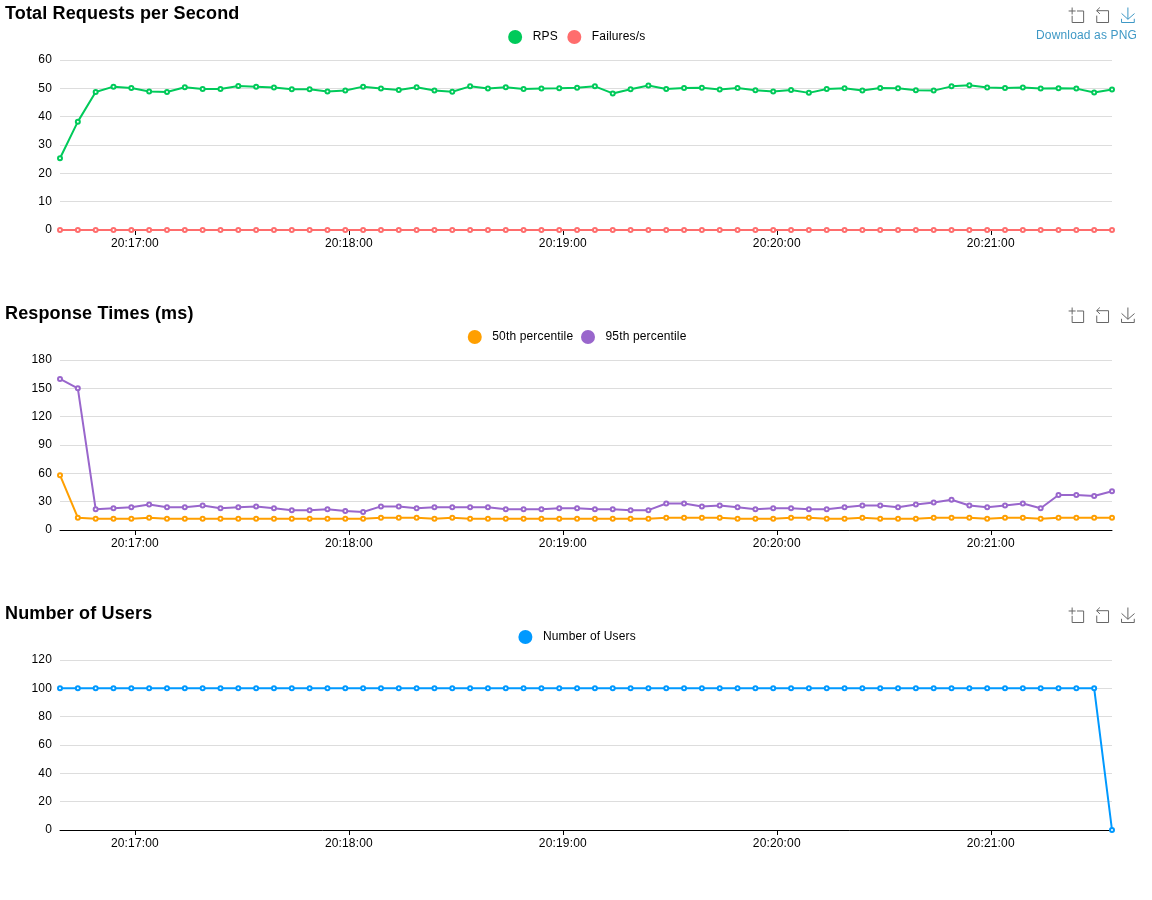
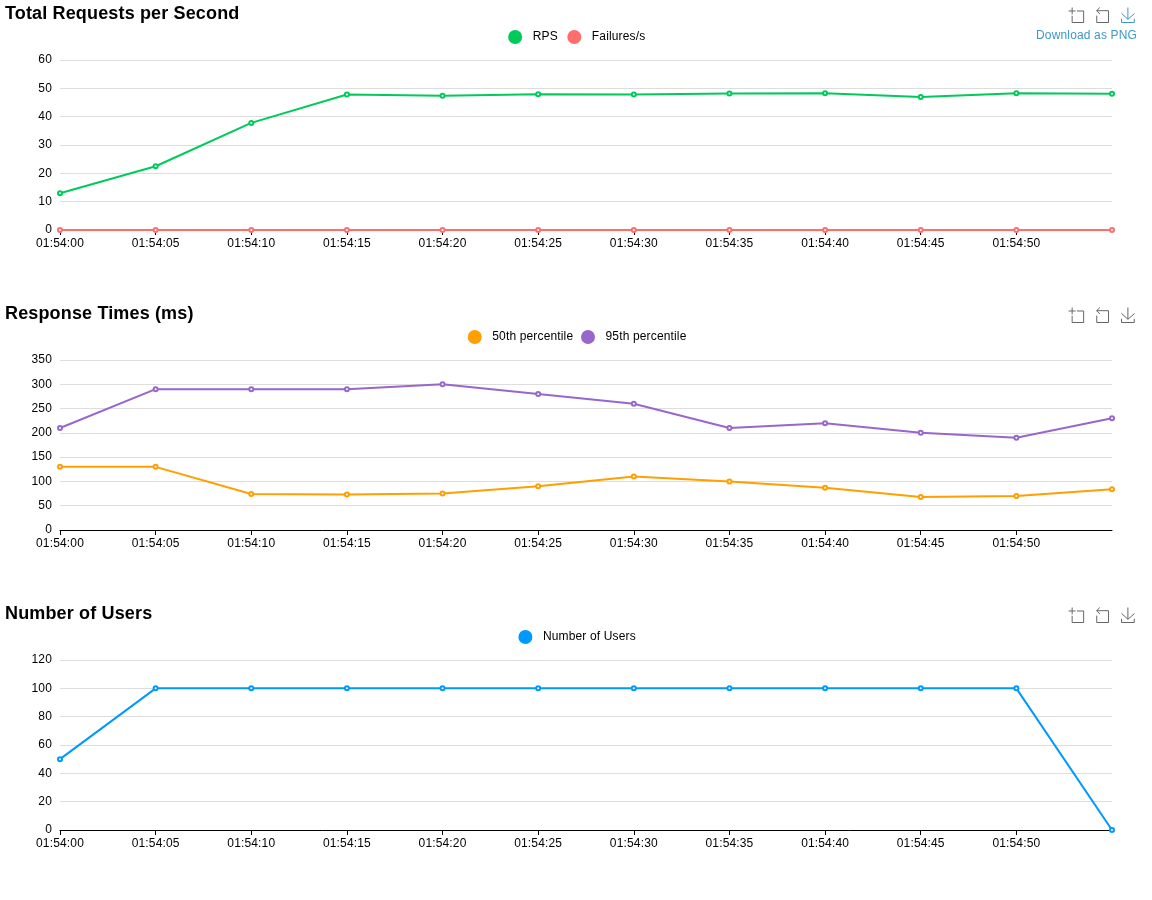
locust tests / README.md

diff --git a/services/drf/tests/external/report.html b/services/drf/tests/external/report.html
@@ -116,7 +116,7 @@
     <div id="root"></div>
 
     <script>
-      window.templateArgs = {"duration": "5 minutes", "end_time": "2026-01-13T15:38:04Z", "exceptions_statistics": [], "failures_statistics": [], "history": [{"current_fail_per_sec": ["2026-01-13T15:33:09Z", 0], "current_rps": ["2026-01-13T15:33:09Z", 6.0], "response_time_percentile_0.5": ["2026-01-13T15:33:09Z", 250.0], "response_time_percentile_0.95": ["2026-01-13T15:33:09Z", 490.0], "time": "2026-01-13T15:33:09Z", "total_avg_response_time": ["2026-01-13T15:33:09Z", 244.52], "user_count": ["2026-01-13T15:33:09Z", 25]}, {"current_fail_per_sec": ["2026-01-13T15:33:14Z", 0], "current_rps": ["2026-01-13T15:33:14Z", 10.125], "response_time_percentile_0.5": ["2026-01-13T15:33:14Z", 150.0], "response_time_percentile_0.95": ["2026-01-13T15:33:14Z", 440.0], "time": "2026-01-13T15:33:14Z", "total_avg_response_time": ["2026-01-13T15:33:14Z", 189.95], "user_count": ["2026-01-13T15:33:14Z", 30]}, {"current_fail_per_sec": ["2026-01-13T15:33:19Z", 0], "current_rps": ["2026-01-13T15:33:19Z", 13.3], "response_time_percentile_0.5": ["2026-01-13T15:33:19Z", 150.0], "response_time_percentile_0.95": ["2026-01-13T15:33:19Z", 330.0], "time": "2026-01-13T15:33:19Z", "total_avg_response_time": ["2026-01-13T15:33:19Z", 177.52], "user_count": ["2026-01-13T15:33:19Z", 30]}, {"current_fail_per_sec": ["2026-01-13T15:33:24Z", 0], "current_rps": ["2026-01-13T15:33:24Z", 14.0], "response_time_percentile_0.5": ["2026-01-13T15:33:24Z", 180.0], "response_time_percentile_0.95": ["2026-01-13T15:33:24Z", 350.0], "time": "2026-01-13T15:33:24Z", "total_avg_response_time": ["2026-01-13T15:33:24Z", 184.58], "user_count": ["2026-01-13T15:33:24Z", 30]}, {"current_fail_per_sec": ["2026-01-13T15:33:29Z", 0], "current_rps": ["2026-01-13T15:33:29Z", 13.6], "response_time_percentile_0.5": ["2026-01-13T15:33:29Z", 220.0], "response_time_percentile_0.95": ["2026-01-13T15:33:29Z", 520.0], "time": "2026-01-13T15:33:29Z", "total_avg_response_time": ["2026-01-13T15:33:29Z", 202.81], "user_count": ["2026-01-13T15:33:29Z", 30]}, {"current_fail_per_sec": ["2026-01-13T15:33:34Z", 0], "current_rps": ["2026-01-13T15:33:34Z", 13.3], "response_time_percentile_0.5": ["2026-01-13T15:33:34Z", 200.0], "response_time_percentile_0.95": ["2026-01-13T15:33:34Z", 560.0], "time": "2026-01-13T15:33:34Z", "total_avg_response_time": ["2026-01-13T15:33:34Z", 200.83], "user_count": ["2026-01-13T15:33:34Z", 30]}, {"current_fail_per_sec": ["2026-01-13T15:33:39Z", 0], "current_rps": ["2026-01-13T15:33:39Z", 13.1], "response_time_percentile_0.5": ["2026-01-13T15:33:39Z", 170.0], "response_time_percentile_0.95": ["2026-01-13T15:33:39Z", 340.0], "time": "2026-01-13T15:33:39Z", "total_avg_response_time": ["2026-01-13T15:33:39Z", 195.48], "user_count": ["2026-01-13T15:33:39Z", 30]}, {"current_fail_per_sec": ["2026-01-13T15:33:44Z", 0], "current_rps": ["2026-01-13T15:33:44Z", 13.7], "response_time_percentile_0.5": ["2026-01-13T15:33:44Z", 190.0], "response_time_percentile_0.95": ["2026-01-13T15:33:44Z", 390.0], "time": "2026-01-13T15:33:44Z", "total_avg_response_time": ["2026-01-13T15:33:44Z", 197.82], "user_count": ["2026-01-13T15:33:44Z", 30]}, {"current_fail_per_sec": ["2026-01-13T15:33:49Z", 0], "current_rps": ["2026-01-13T15:33:49Z", 14.3], "response_time_percentile_0.5": ["2026-01-13T15:33:49Z", 240.0], "response_time_percentile_0.95": ["2026-01-13T15:33:49Z", 510.0], "time": "2026-01-13T15:33:49Z", "total_avg_response_time": ["2026-01-13T15:33:49Z", 205.03], "user_count": ["2026-01-13T15:33:49Z", 30]}, {"current_fail_per_sec": ["2026-01-13T15:33:54Z", 0], "current_rps": ["2026-01-13T15:33:54Z", 13.7], "response_time_percentile_0.5": ["2026-01-13T15:33:54Z", 210.0], "response_time_percentile_0.95": ["2026-01-13T15:33:54Z", 540.0], "time": "2026-01-13T15:33:54Z", "total_avg_response_time": ["2026-01-13T15:33:54Z", 207.94], "user_count": ["2026-01-13T15:33:54Z", 30]}, {"current_fail_per_sec": ["2026-01-13T15:33:59Z", 0], "current_rps": ["2026-01-13T15:33:59Z", 13.3], "response_time_percentile_0.5": ["2026-01-13T15:33:59Z", 180.0], "response_time_percentile_0.95": ["2026-01-13T15:33:59Z", 480.0], "time": "2026-01-13T15:33:59Z", "total_avg_response_time": ["2026-01-13T15:33:59Z", 203.93], "user_count": ["2026-01-13T15:33:59Z", 30]}, {"current_fail_per_sec": ["2026-01-13T15:34:04Z", 0], "current_rps": ["2026-01-13T15:34:04Z", 13.0], "response_time_percentile_0.5": ["2026-01-13T15:34:04Z", 180.0], "response_time_percentile_0.95": ["2026-01-13T15:34:04Z", 310.0], "time": "2026-01-13T15:34:04Z", "total_avg_response_time": ["2026-01-13T15:34:04Z", 202.76], "user_count": ["2026-01-13T15:34:04Z", 30]}, {"current_fail_per_sec": ["2026-01-13T15:34:09Z", 0], "current_rps": ["2026-01-13T15:34:09Z", 13.4], "response_time_percentile_0.5": ["2026-01-13T15:34:09Z", 180.0], "response_time_percentile_0.95": ["2026-01-13T15:34:09Z", 310.0], "time": "2026-01-13T15:34:09Z", "total_avg_response_time": ["2026-01-13T15:34:09Z", 201.0], "user_count": ["2026-01-13T15:34:09Z", 30]}, {"current_fail_per_sec": ["2026-01-13T15:34:14Z", 0], "current_rps": ["2026-01-13T15:34:14Z", 13.8], "response_time_percentile_0.5": ["2026-01-13T15:34:14Z", 210.0], "response_time_percentile_0.95": ["2026-01-13T15:34:14Z", 410.0], "time": "2026-01-13T15:34:14Z", "total_avg_response_time": ["2026-01-13T15:34:14Z", 203.1], "user_count": ["2026-01-13T15:34:14Z", 30]}, {"current_fail_per_sec": ["2026-01-13T15:34:19Z", 0], "current_rps": ["2026-01-13T15:34:19Z", 13.5], "response_time_percentile_0.5": ["2026-01-13T15:34:19Z", 220.0], "response_time_percentile_0.95": ["2026-01-13T15:34:19Z", 440.0], "time": "2026-01-13T15:34:19Z", "total_avg_response_time": ["2026-01-13T15:34:19Z", 205.04], "user_count": ["2026-01-13T15:34:19Z", 30]}, {"current_fail_per_sec": ["2026-01-13T15:34:24Z", 0], "current_rps": ["2026-01-13T15:34:24Z", 13.7], "response_time_percentile_0.5": ["2026-01-13T15:34:24Z", 190.0], "response_time_percentile_0.95": ["2026-01-13T15:34:24Z", 400.0], "time": "2026-01-13T15:34:24Z", "total_avg_response_time": ["2026-01-13T15:34:24Z", 205.79], "user_count": ["2026-01-13T15:34:24Z", 30]}, {"current_fail_per_sec": ["2026-01-13T15:34:29Z", 0], "current_rps": ["2026-01-13T15:34:29Z", 13.8], "response_time_percentile_0.5": ["2026-01-13T15:34:29Z", 220.0], "response_time_percentile_0.95": ["2026-01-13T15:34:29Z", 410.0], "time": "2026-01-13T15:34:29Z", "total_avg_response_time": ["2026-01-13T15:34:29Z", 206.54], "user_count": ["2026-01-13T15:34:29Z", 30]}, {"current_fail_per_sec": ["2026-01-13T15:34:34Z", 0], "current_rps": ["2026-01-13T15:34:34Z", 13.9], "response_time_percentile_0.5": ["2026-01-13T15:34:34Z", 140.0], "response_time_percentile_0.95": ["2026-01-13T15:34:34Z", 400.0], "time": "2026-01-13T15:34:34Z", "total_avg_response_time": ["2026-01-13T15:34:34Z", 202.04], "user_count": ["2026-01-13T15:34:34Z", 30]}, {"current_fail_per_sec": ["2026-01-13T15:34:39Z", 0], "current_rps": ["2026-01-13T15:34:39Z", 14.0], "response_time_percentile_0.5": ["2026-01-13T15:34:39Z", 140.0], "response_time_percentile_0.95": ["2026-01-13T15:34:39Z", 310.0], "time": "2026-01-13T15:34:39Z", "total_avg_response_time": ["2026-01-13T15:34:39Z", 200.64], "user_count": ["2026-01-13T15:34:39Z", 30]}, {"current_fail_per_sec": ["2026-01-13T15:34:44Z", 0], "current_rps": ["2026-01-13T15:34:44Z", 13.8], "response_time_percentile_0.5": ["2026-01-13T15:34:44Z", 170.0], "response_time_percentile_0.95": ["2026-01-13T15:34:44Z", 360.0], "time": "2026-01-13T15:34:44Z", "total_avg_response_time": ["2026-01-13T15:34:44Z", 199.7], "user_count": ["2026-01-13T15:34:44Z", 30]}, {"current_fail_per_sec": ["2026-01-13T15:34:49Z", 0], "current_rps": ["2026-01-13T15:34:49Z", 13.5], "response_time_percentile_0.5": ["2026-01-13T15:34:49Z", 170.0], "response_time_percentile_0.95": ["2026-01-13T15:34:49Z", 420.0], "time": "2026-01-13T15:34:49Z", "total_avg_response_time": ["2026-01-13T15:34:49Z", 200.42], "user_count": ["2026-01-13T15:34:49Z", 30]}, {"current_fail_per_sec": ["2026-01-13T15:34:54Z", 0], "current_rps": ["2026-01-13T15:34:54Z", 13.8], "response_time_percentile_0.5": ["2026-01-13T15:34:54Z", 190.0], "response_time_percentile_0.95": ["2026-01-13T15:34:54Z", 410.0], "time": "2026-01-13T15:34:54Z", "total_avg_response_time": ["2026-01-13T15:34:54Z", 201.42], "user_count": ["2026-01-13T15:34:54Z", 30]}, {"current_fail_per_sec": ["2026-01-13T15:34:59Z", 0], "current_rps": ["2026-01-13T15:34:59Z", 14.1], "response_time_percentile_0.5": ["2026-01-13T15:34:59Z", 180.0], "response_time_percentile_0.95": ["2026-01-13T15:34:59Z", 400.0], "time": "2026-01-13T15:34:59Z", "total_avg_response_time": ["2026-01-13T15:34:59Z", 200.44], "user_count": ["2026-01-13T15:34:59Z", 30]}, {"current_fail_per_sec": ["2026-01-13T15:35:04Z", 0], "current_rps": ["2026-01-13T15:35:04Z", 13.8], "response_time_percentile_0.5": ["2026-01-13T15:35:04Z", 150.0], "response_time_percentile_0.95": ["2026-01-13T15:35:04Z", 410.0], "time": "2026-01-13T15:35:04Z", "total_avg_response_time": ["2026-01-13T15:35:04Z", 200.46], "user_count": ["2026-01-13T15:35:04Z", 30]}, {"current_fail_per_sec": ["2026-01-13T15:35:09Z", 0], "current_rps": ["2026-01-13T15:35:09Z", 13.8], "response_time_percentile_0.5": ["2026-01-13T15:35:09Z", 180.0], "response_time_percentile_0.95": ["2026-01-13T15:35:09Z", 420.0], "time": "2026-01-13T15:35:09Z", "total_avg_response_time": ["2026-01-13T15:35:09Z", 200.08], "user_count": ["2026-01-13T15:35:09Z", 30]}, {"current_fail_per_sec": ["2026-01-13T15:35:14Z", 0], "current_rps": ["2026-01-13T15:35:14Z", 14.1], "response_time_percentile_0.5": ["2026-01-13T15:35:14Z", 180.0], "response_time_percentile_0.95": ["2026-01-13T15:35:14Z", 360.0], "time": "2026-01-13T15:35:14Z", "total_avg_response_time": ["2026-01-13T15:35:14Z", 199.86], "user_count": ["2026-01-13T15:35:14Z", 30]}, {"current_fail_per_sec": ["2026-01-13T15:35:19Z", 0], "current_rps": ["2026-01-13T15:35:19Z", 13.4], "response_time_percentile_0.5": ["2026-01-13T15:35:19Z", 200.0], "response_time_percentile_0.95": ["2026-01-13T15:35:19Z", 380.0], "time": "2026-01-13T15:35:19Z", "total_avg_response_time": ["2026-01-13T15:35:19Z", 200.28], "user_count": ["2026-01-13T15:35:19Z", 30]}, {"current_fail_per_sec": ["2026-01-13T15:35:24Z", 0], "current_rps": ["2026-01-13T15:35:24Z", 13.2], "response_time_percentile_0.5": ["2026-01-13T15:35:24Z", 190.0], "response_time_percentile_0.95": ["2026-01-13T15:35:24Z", 380.0], "time": "2026-01-13T15:35:24Z", "total_avg_response_time": ["2026-01-13T15:35:24Z", 200.79], "user_count": ["2026-01-13T15:35:24Z", 30]}, {"current_fail_per_sec": ["2026-01-13T15:35:29Z", 0], "current_rps": ["2026-01-13T15:35:29Z", 13.7], "response_time_percentile_0.5": ["2026-01-13T15:35:29Z", 190.0], "response_time_percentile_0.95": ["2026-01-13T15:35:29Z", 390.0], "time": "2026-01-13T15:35:29Z", "total_avg_response_time": ["2026-01-13T15:35:29Z", 200.18], "user_count": ["2026-01-13T15:35:29Z", 30]}, {"current_fail_per_sec": ["2026-01-13T15:35:34Z", 0], "current_rps": ["2026-01-13T15:35:34Z", 13.5], "response_time_percentile_0.5": ["2026-01-13T15:35:34Z", 180.0], "response_time_percentile_0.95": ["2026-01-13T15:35:34Z", 370.0], "time": "2026-01-13T15:35:34Z", "total_avg_response_time": ["2026-01-13T15:35:34Z", 199.96], "user_count": ["2026-01-13T15:35:34Z", 30]}, {"current_fail_per_sec": ["2026-01-13T15:35:39Z", 0], "current_rps": ["2026-01-13T15:35:39Z", 13.6], "response_time_percentile_0.5": ["2026-01-13T15:35:39Z", 180.0], "response_time_percentile_0.95": ["2026-01-13T15:35:39Z", 380.0], "time": "2026-01-13T15:35:39Z", "total_avg_response_time": ["2026-01-13T15:35:39Z", 199.63], "user_count": ["2026-01-13T15:35:39Z", 30]}, {"current_fail_per_sec": ["2026-01-13T15:35:44Z", 0], "current_rps": ["2026-01-13T15:35:44Z", 13.6], "response_time_percentile_0.5": ["2026-01-13T15:35:44Z", 150.0], "response_time_percentile_0.95": ["2026-01-13T15:35:44Z", 360.0], "time": "2026-01-13T15:35:44Z", "total_avg_response_time": ["2026-01-13T15:35:44Z", 197.85], "user_count": ["2026-01-13T15:35:44Z", 30]}, {"current_fail_per_sec": ["2026-01-13T15:35:49Z", 0], "current_rps": ["2026-01-13T15:35:49Z", 13.5], "response_time_percentile_0.5": ["2026-01-13T15:35:49Z", 150.0], "response_time_percentile_0.95": ["2026-01-13T15:35:49Z", 300.0], "time": "2026-01-13T15:35:49Z", "total_avg_response_time": ["2026-01-13T15:35:49Z", 196.35], "user_count": ["2026-01-13T15:35:49Z", 30]}, {"current_fail_per_sec": ["2026-01-13T15:35:54Z", 0], "current_rps": ["2026-01-13T15:35:54Z", 14.0], "response_time_percentile_0.5": ["2026-01-13T15:35:54Z", 140.0], "response_time_percentile_0.95": ["2026-01-13T15:35:54Z", 300.0], "time": "2026-01-13T15:35:54Z", "total_avg_response_time": ["2026-01-13T15:35:54Z", 194.78], "user_count": ["2026-01-13T15:35:54Z", 30]}, {"current_fail_per_sec": ["2026-01-13T15:35:59Z", 0], "current_rps": ["2026-01-13T15:35:59Z", 13.9], "response_time_percentile_0.5": ["2026-01-13T15:35:59Z", 160.0], "response_time_percentile_0.95": ["2026-01-13T15:35:59Z", 380.0], "time": "2026-01-13T15:35:59Z", "total_avg_response_time": ["2026-01-13T15:35:59Z", 195.48], "user_count": ["2026-01-13T15:35:59Z", 30]}, {"current_fail_per_sec": ["2026-01-13T15:36:04Z", 0], "current_rps": ["2026-01-13T15:36:04Z", 13.8], "response_time_percentile_0.5": ["2026-01-13T15:36:04Z", 190.0], "response_time_percentile_0.95": ["2026-01-13T15:36:04Z", 380.0], "time": "2026-01-13T15:36:04Z", "total_avg_response_time": ["2026-01-13T15:36:04Z", 194.82], "user_count": ["2026-01-13T15:36:04Z", 30]}, {"current_fail_per_sec": ["2026-01-13T15:36:09Z", 0], "current_rps": ["2026-01-13T15:36:09Z", 14.0], "response_time_percentile_0.5": ["2026-01-13T15:36:09Z", 160.0], "response_time_percentile_0.95": ["2026-01-13T15:36:09Z", 370.0], "time": "2026-01-13T15:36:09Z", "total_avg_response_time": ["2026-01-13T15:36:09Z", 194.3], "user_count": ["2026-01-13T15:36:09Z", 30]}, {"current_fail_per_sec": ["2026-01-13T15:36:14Z", 0], "current_rps": ["2026-01-13T15:36:14Z", 13.9], "response_time_percentile_0.5": ["2026-01-13T15:36:14Z", 140.0], "response_time_percentile_0.95": ["2026-01-13T15:36:14Z", 410.0], "time": "2026-01-13T15:36:14Z", "total_avg_response_time": ["2026-01-13T15:36:14Z", 193.4], "user_count": ["2026-01-13T15:36:14Z", 30]}, {"current_fail_per_sec": ["2026-01-13T15:36:19Z", 0], "current_rps": ["2026-01-13T15:36:19Z", 13.7], "response_time_percentile_0.5": ["2026-01-13T15:36:19Z", 190.0], "response_time_percentile_0.95": ["2026-01-13T15:36:19Z", 400.0], "time": "2026-01-13T15:36:19Z", "total_avg_response_time": ["2026-01-13T15:36:19Z", 194.92], "user_count": ["2026-01-13T15:36:19Z", 30]}, {"current_fail_per_sec": ["2026-01-13T15:36:24Z", 0], "current_rps": ["2026-01-13T15:36:24Z", 13.3], "response_time_percentile_0.5": ["2026-01-13T15:36:24Z", 220.0], "response_time_percentile_0.95": ["2026-01-13T15:36:24Z", 460.0], "time": "2026-01-13T15:36:24Z", "total_avg_response_time": ["2026-01-13T15:36:24Z", 195.52], "user_count": ["2026-01-13T15:36:24Z", 30]}, {"current_fail_per_sec": ["2026-01-13T15:36:29Z", 0], "current_rps": ["2026-01-13T15:36:29Z", 13.8], "response_time_percentile_0.5": ["2026-01-13T15:36:29Z", 170.0], "response_time_percentile_0.95": ["2026-01-13T15:36:29Z", 410.0], "time": "2026-01-13T15:36:29Z", "total_avg_response_time": ["2026-01-13T15:36:29Z", 195.19], "user_count": ["2026-01-13T15:36:29Z", 30]}, {"current_fail_per_sec": ["2026-01-13T15:36:34Z", 0], "current_rps": ["2026-01-13T15:36:34Z", 13.4], "response_time_percentile_0.5": ["2026-01-13T15:36:34Z", 190.0], "response_time_percentile_0.95": ["2026-01-13T15:36:34Z", 430.0], "time": "2026-01-13T15:36:34Z", "total_avg_response_time": ["2026-01-13T15:36:34Z", 196.15], "user_count": ["2026-01-13T15:36:34Z", 30]}, {"current_fail_per_sec": ["2026-01-13T15:36:39Z", 0], "current_rps": ["2026-01-13T15:36:39Z", 13.3], "response_time_percentile_0.5": ["2026-01-13T15:36:39Z", 170.0], "response_time_percentile_0.95": ["2026-01-13T15:36:39Z", 380.0], "time": "2026-01-13T15:36:39Z", "total_avg_response_time": ["2026-01-13T15:36:39Z", 195.37], "user_count": ["2026-01-13T15:36:39Z", 30]}, {"current_fail_per_sec": ["2026-01-13T15:36:44Z", 0], "current_rps": ["2026-01-13T15:36:44Z", 13.8], "response_time_percentile_0.5": ["2026-01-13T15:36:44Z", 150.0], "response_time_percentile_0.95": ["2026-01-13T15:36:44Z", 290.0], "time": "2026-01-13T15:36:44Z", "total_avg_response_time": ["2026-01-13T15:36:44Z", 194.13], "user_count": ["2026-01-13T15:36:44Z", 30]}, {"current_fail_per_sec": ["2026-01-13T15:36:49Z", 0], "current_rps": ["2026-01-13T15:36:49Z", 13.6], "response_time_percentile_0.5": ["2026-01-13T15:36:49Z", 160.0], "response_time_percentile_0.95": ["2026-01-13T15:36:49Z", 310.0], "time": "2026-01-13T15:36:49Z", "total_avg_response_time": ["2026-01-13T15:36:49Z", 194.0], "user_count": ["2026-01-13T15:36:49Z", 30]}, {"current_fail_per_sec": ["2026-01-13T15:36:54Z", 0], "current_rps": ["2026-01-13T15:36:54Z", 13.7], "response_time_percentile_0.5": ["2026-01-13T15:36:54Z", 160.0], "response_time_percentile_0.95": ["2026-01-13T15:36:54Z", 310.0], "time": "2026-01-13T15:36:54Z", "total_avg_response_time": ["2026-01-13T15:36:54Z", 193.21], "user_count": ["2026-01-13T15:36:54Z", 30]}, {"current_fail_per_sec": ["2026-01-13T15:36:59Z", 0], "current_rps": ["2026-01-13T15:36:59Z", 13.8], "response_time_percentile_0.5": ["2026-01-13T15:36:59Z", 170.0], "response_time_percentile_0.95": ["2026-01-13T15:36:59Z", 390.0], "time": "2026-01-13T15:36:59Z", "total_avg_response_time": ["2026-01-13T15:36:59Z", 193.68], "user_count": ["2026-01-13T15:36:59Z", 30]}, {"current_fail_per_sec": ["2026-01-13T15:37:04Z", 0], "current_rps": ["2026-01-13T15:37:04Z", 13.4], "response_time_percentile_0.5": ["2026-01-13T15:37:04Z", 190.0], "response_time_percentile_0.95": ["2026-01-13T15:37:04Z", 410.0], "time": "2026-01-13T15:37:04Z", "total_avg_response_time": ["2026-01-13T15:37:04Z", 193.48], "user_count": ["2026-01-13T15:37:04Z", 30]}, {"current_fail_per_sec": ["2026-01-13T15:37:09Z", 0], "current_rps": ["2026-01-13T15:37:09Z", 13.5], "response_time_percentile_0.5": ["2026-01-13T15:37:09Z", 150.0], "response_time_percentile_0.95": ["2026-01-13T15:37:09Z", 350.0], "time": "2026-01-13T15:37:09Z", "total_avg_response_time": ["2026-01-13T15:37:09Z", 192.95], "user_count": ["2026-01-13T15:37:09Z", 30]}, {"current_fail_per_sec": ["2026-01-13T15:37:14Z", 0], "current_rps": ["2026-01-13T15:37:14Z", 13.7], "response_time_percentile_0.5": ["2026-01-13T15:37:14Z", 150.0], "response_time_percentile_0.95": ["2026-01-13T15:37:14Z", 370.0], "time": "2026-01-13T15:37:14Z", "total_avg_response_time": ["2026-01-13T15:37:14Z", 192.96], "user_count": ["2026-01-13T15:37:14Z", 30]}, {"current_fail_per_sec": ["2026-01-13T15:37:19Z", 0], "current_rps": ["2026-01-13T15:37:19Z", 13.6], "response_time_percentile_0.5": ["2026-01-13T15:37:19Z", 160.0], "response_time_percentile_0.95": ["2026-01-13T15:37:19Z", 480.0], "time": "2026-01-13T15:37:19Z", "total_avg_response_time": ["2026-01-13T15:37:19Z", 193.46], "user_count": ["2026-01-13T15:37:19Z", 30]}, {"current_fail_per_sec": ["2026-01-13T15:37:24Z", 0], "current_rps": ["2026-01-13T15:37:24Z", 14.0], "response_time_percentile_0.5": ["2026-01-13T15:37:24Z", 160.0], "response_time_percentile_0.95": ["2026-01-13T15:37:24Z", 480.0], "time": "2026-01-13T15:37:24Z", "total_avg_response_time": ["2026-01-13T15:37:24Z", 193.19], "user_count": ["2026-01-13T15:37:24Z", 30]}, {"current_fail_per_sec": ["2026-01-13T15:37:29Z", 0], "current_rps": ["2026-01-13T15:37:29Z", 14.0], "response_time_percentile_0.5": ["2026-01-13T15:37:29Z", 160.0], "response_time_percentile_0.95": ["2026-01-13T15:37:29Z", 370.0], "time": "2026-01-13T15:37:29Z", "total_avg_response_time": ["2026-01-13T15:37:29Z", 192.86], "user_count": ["2026-01-13T15:37:29Z", 30]}, {"current_fail_per_sec": ["2026-01-13T15:37:34Z", 0], "current_rps": ["2026-01-13T15:37:34Z", 13.5], "response_time_percentile_0.5": ["2026-01-13T15:37:34Z", 160.0], "response_time_percentile_0.95": ["2026-01-13T15:37:34Z", 430.0], "time": "2026-01-13T15:37:34Z", "total_avg_response_time": ["2026-01-13T15:37:34Z", 192.7], "user_count": ["2026-01-13T15:37:34Z", 30]}, {"current_fail_per_sec": ["2026-01-13T15:37:39Z", 0], "current_rps": ["2026-01-13T15:37:39Z", 13.7], "response_time_percentile_0.5": ["2026-01-13T15:37:39Z", 150.0], "response_time_percentile_0.95": ["2026-01-13T15:37:39Z", 370.0], "time": "2026-01-13T15:37:39Z", "total_avg_response_time": ["2026-01-13T15:37:39Z", 191.79], "user_count": ["2026-01-13T15:37:39Z", 30]}, {"current_fail_per_sec": ["2026-01-13T15:37:44Z", 0], "current_rps": ["2026-01-13T15:37:44Z", 13.7], "response_time_percentile_0.5": ["2026-01-13T15:37:44Z", 140.0], "response_time_percentile_0.95": ["2026-01-13T15:37:44Z", 400.0], "time": "2026-01-13T15:37:44Z", "total_avg_response_time": ["2026-01-13T15:37:44Z", 192.03], "user_count": ["2026-01-13T15:37:44Z", 30]}, {"current_fail_per_sec": ["2026-01-13T15:37:49Z", 0], "current_rps": ["2026-01-13T15:37:49Z", 13.3], "response_time_percentile_0.5": ["2026-01-13T15:37:49Z", 170.0], "response_time_percentile_0.95": ["2026-01-13T15:37:49Z", 400.0], "time": "2026-01-13T15:37:49Z", "total_avg_response_time": ["2026-01-13T15:37:49Z", 191.76], "user_count": ["2026-01-13T15:37:49Z", 30]}, {"current_fail_per_sec": ["2026-01-13T15:37:54Z", 0], "current_rps": ["2026-01-13T15:37:54Z", 13.5], "response_time_percentile_0.5": ["2026-01-13T15:37:54Z", 150.0], "response_time_percentile_0.95": ["2026-01-13T15:37:54Z", 300.0], "time": "2026-01-13T15:37:54Z", "total_avg_response_time": ["2026-01-13T15:37:54Z", 190.88], "user_count": ["2026-01-13T15:37:54Z", 30]}, {"current_fail_per_sec": ["2026-01-13T15:37:59Z", 0], "current_rps": ["2026-01-13T15:37:59Z", 13.7], "response_time_percentile_0.5": ["2026-01-13T15:37:59Z", 130.0], "response_time_percentile_0.95": ["2026-01-13T15:37:59Z", 280.0], "time": "2026-01-13T15:37:59Z", "total_avg_response_time": ["2026-01-13T15:37:59Z", 190.04], "user_count": ["2026-01-13T15:37:59Z", 30]}, {"current_fail_per_sec": ["2026-01-13T15:38:04Z", 0], "current_rps": ["2026-01-13T15:38:04Z", 13.7], "response_time_percentile_0.5": ["2026-01-13T15:38:04Z", 170.0], "response_time_percentile_0.95": ["2026-01-13T15:38:04Z", 330.0], "time": "2026-01-13T15:38:04Z", "total_avg_response_time": ["2026-01-13T15:38:04Z", 190.23], "user_count": ["2026-01-13T15:38:04Z", 0]}], "host": "http://localhost:1338", "is_report": true, "locustfile": "locust.py", "percentiles_to_chart": [0.5, 0.95], "profile": null, "requests_statistics": [{"avg_content_length": 26317.0, "avg_response_time": 22.15162579119779, "current_fail_per_sec": 0.0, "current_rps": 1.3, "max_response_time": 90.0, "median_response_time": 18, "method": "GET", "min_response_time": 13.0, "name": "/", "num_failures": 0, "num_requests": 340, "response_time_percentile_0.95": 42, "response_time_percentile_0.99": 56, "total_fail_per_sec": 0.0, "total_rps": 1.1337062093274932}, {"avg_content_length": 61664.0, "avg_response_time": 185.10368127192973, "current_fail_per_sec": 0.0, "current_rps": 7.8, "max_response_time": 652.0, "median_response_time": 160.0, "method": "GET", "min_response_time": 65.0, "name": "/api/v1/project/", "num_failures": 0, "num_requests": 1868, "response_time_percentile_0.95": 390.0, "response_time_percentile_0.99": 500.0, "total_fail_per_sec": 0.0, "total_rps": 6.228715291246345}, {"avg_content_length": 110154.0, "avg_response_time": 226.07449194412, "current_fail_per_sec": 0.0, "current_rps": 4.6, "max_response_time": 691.0, "median_response_time": 210.0, "method": "GET", "min_response_time": 97.0, "name": "/projects/", "num_failures": 0, "num_requests": 1862, "response_time_percentile_0.95": 420.0, "response_time_percentile_0.99": 530.0, "total_fail_per_sec": 0.0, "total_rps": 6.2087087110817425}, {"avg_content_length": 80895.05651105651, "avg_response_time": 190.23487306754902, "current_fail_per_sec": 0.0, "current_rps": 13.7, "max_response_time": 691.0, "median_response_time": 170.0, "method": "", "min_response_time": 13.0, "name": "Aggregated", "num_failures": 0, "num_requests": 4070, "response_time_percentile_0.95": 400.0, "response_time_percentile_0.99": 500.0, "total_fail_per_sec": 0.0, "total_rps": 13.57113021165558}], "response_time_statistics": [{"0.5": 18, "0.6": 19, "0.7": 21, "0.8": 29, "0.9": 37, "0.95": 42, "0.99": 56, "1.0": 90, "method": "GET", "name": "/"}, {"0.5": 160.0, "0.6": 190.0, "0.7": 220.0, "0.8": 270.0, "0.9": 330.0, "0.95": 390.0, "0.99": 500.0, "1.0": 650.0, "method": "GET", "name": "/api/v1/project/"}, {"0.5": 210.0, "0.6": 240.0, "0.7": 270.0, "0.8": 300.0, "0.9": 370.0, "0.95": 420.0, "0.99": 530.0, "1.0": 690.0, "method": "GET", "name": "/projects/"}, {"0.5": 170.0, "0.6": 200.0, "0.7": 240.0, "0.8": 280.0, "0.9": 350.0, "0.95": 400.0, "0.99": 500.0, "1.0": 690.0, "method": "", "name": "Aggregated"}], "show_download_link": false, "start_time": "2026-01-13T15:33:04Z", "tasks": {"per_class": {"ApiProject": {"ratio": 1.0, "tasks": {"get_main": {"ratio": 0.09090909090909091}, "get_projects": {"ratio": 0.45454545454545453}, "get_projects_api": {"ratio": 0.45454545454545453}}}}, "total": {"ApiProject": {"ratio": 1.0, "tasks": {"get_main": {"ratio": 0.09090909090909091}, "get_projects": {"ratio": 0.45454545454545453}, "get_projects_api": {"ratio": 0.45454545454545453}}}}}}
+      window.templateArgs = {"duration": "59 seconds", "end_time": "2026-01-13T22:56:57Z", "exceptions_statistics": [], "failures_statistics": [], "history": [{"current_fail_per_sec": ["2026-01-13T22:56:03Z", 0], "current_rps": ["2026-01-13T22:56:03Z", 10.5], "response_time_percentile_0.5": ["2026-01-13T22:56:03Z", 720.0], "response_time_percentile_0.95": ["2026-01-13T22:56:03Z", 1300.0], "time": "2026-01-13T22:56:03Z", "total_avg_response_time": ["2026-01-13T22:56:03Z", 633.38], "user_count": ["2026-01-13T22:56:03Z", 50]}, {"current_fail_per_sec": ["2026-01-13T22:56:08Z", 0], "current_rps": ["2026-01-13T22:56:08Z", 12.285714285714286], "response_time_percentile_0.5": ["2026-01-13T22:56:08Z", 1600.0], "response_time_percentile_0.95": ["2026-01-13T22:56:08Z", 3400.0], "time": "2026-01-13T22:56:08Z", "total_avg_response_time": ["2026-01-13T22:56:08Z", 1554.96], "user_count": ["2026-01-13T22:56:08Z", 100]}, {"current_fail_per_sec": ["2026-01-13T22:56:13Z", 0], "current_rps": ["2026-01-13T22:56:13Z", 13.1], "response_time_percentile_0.5": ["2026-01-13T22:56:13Z", 3600.0], "response_time_percentile_0.95": ["2026-01-13T22:56:13Z", 5600.0], "time": "2026-01-13T22:56:13Z", "total_avg_response_time": ["2026-01-13T22:56:13Z", 2577.46], "user_count": ["2026-01-13T22:56:13Z", 100]}, {"current_fail_per_sec": ["2026-01-13T22:56:18Z", 0], "current_rps": ["2026-01-13T22:56:18Z", 13.0], "response_time_percentile_0.5": ["2026-01-13T22:56:18Z", 5600.0], "response_time_percentile_0.95": ["2026-01-13T22:56:18Z", 5900.0], "time": "2026-01-13T22:56:18Z", "total_avg_response_time": ["2026-01-13T22:56:18Z", 3381.62], "user_count": ["2026-01-13T22:56:18Z", 100]}, {"current_fail_per_sec": ["2026-01-13T22:56:23Z", 0], "current_rps": ["2026-01-13T22:56:23Z", 12.9], "response_time_percentile_0.5": ["2026-01-13T22:56:23Z", 5700.0], "response_time_percentile_0.95": ["2026-01-13T22:56:23Z", 5900.0], "time": "2026-01-13T22:56:23Z", "total_avg_response_time": ["2026-01-13T22:56:23Z", 3830.02], "user_count": ["2026-01-13T22:56:23Z", 100]}, {"current_fail_per_sec": ["2026-01-13T22:56:28Z", 0], "current_rps": ["2026-01-13T22:56:28Z", 13.1], "response_time_percentile_0.5": ["2026-01-13T22:56:28Z", 5600.0], "response_time_percentile_0.95": ["2026-01-13T22:56:28Z", 5900.0], "time": "2026-01-13T22:56:28Z", "total_avg_response_time": ["2026-01-13T22:56:28Z", 4143.43], "user_count": ["2026-01-13T22:56:28Z", 100]}, {"current_fail_per_sec": ["2026-01-13T22:56:33Z", 0], "current_rps": ["2026-01-13T22:56:33Z", 13.1], "response_time_percentile_0.5": ["2026-01-13T22:56:33Z", 5700.0], "response_time_percentile_0.95": ["2026-01-13T22:56:33Z", 5900.0], "time": "2026-01-13T22:56:33Z", "total_avg_response_time": ["2026-01-13T22:56:33Z", 4364.13], "user_count": ["2026-01-13T22:56:33Z", 100]}, {"current_fail_per_sec": ["2026-01-13T22:56:38Z", 0], "current_rps": ["2026-01-13T22:56:38Z", 13.1], "response_time_percentile_0.5": ["2026-01-13T22:56:38Z", 5700.0], "response_time_percentile_0.95": ["2026-01-13T22:56:38Z", 6000.0], "time": "2026-01-13T22:56:38Z", "total_avg_response_time": ["2026-01-13T22:56:38Z", 4526.54], "user_count": ["2026-01-13T22:56:38Z", 100]}, {"current_fail_per_sec": ["2026-01-13T22:56:43Z", 0], "current_rps": ["2026-01-13T22:56:43Z", 12.7], "response_time_percentile_0.5": ["2026-01-13T22:56:43Z", 5900.0], "response_time_percentile_0.95": ["2026-01-13T22:56:43Z", 6200.0], "time": "2026-01-13T22:56:43Z", "total_avg_response_time": ["2026-01-13T22:56:43Z", 4691.93], "user_count": ["2026-01-13T22:56:43Z", 100]}, {"current_fail_per_sec": ["2026-01-13T22:56:48Z", 0], "current_rps": ["2026-01-13T22:56:48Z", 12.6], "response_time_percentile_0.5": ["2026-01-13T22:56:48Z", 5900.0], "response_time_percentile_0.95": ["2026-01-13T22:56:48Z", 6200.0], "time": "2026-01-13T22:56:48Z", "total_avg_response_time": ["2026-01-13T22:56:48Z", 4805.56], "user_count": ["2026-01-13T22:56:48Z", 100]}, {"current_fail_per_sec": ["2026-01-13T22:56:53Z", 0], "current_rps": ["2026-01-13T22:56:53Z", 12.9], "response_time_percentile_0.5": ["2026-01-13T22:56:53Z", 5900.0], "response_time_percentile_0.95": ["2026-01-13T22:56:53Z", 6100.0], "time": "2026-01-13T22:56:53Z", "total_avg_response_time": ["2026-01-13T22:56:53Z", 4905.79], "user_count": ["2026-01-13T22:56:53Z", 100]}, {"current_fail_per_sec": ["2026-01-13T22:56:57Z", 0], "current_rps": ["2026-01-13T22:56:57Z", 12.8], "response_time_percentile_0.5": ["2026-01-13T22:56:57Z", 5900.0], "response_time_percentile_0.95": ["2026-01-13T22:56:57Z", 6100.0], "time": "2026-01-13T22:56:57Z", "total_avg_response_time": ["2026-01-13T22:56:57Z", 4986.87], "user_count": ["2026-01-13T22:56:57Z", 0]}], "host": "http://localhost:1338", "is_report": true, "locustfile": "locust.py", "percentiles_to_chart": [0.5, 0.95], "profile": null, "requests_statistics": [{"avg_content_length": 112741.0, "avg_response_time": 4986.872249816666, "current_fail_per_sec": 0.0, "current_rps": 12.8, "max_response_time": 6235.0, "median_response_time": 5700.0, "method": "GET", "min_response_time": 78.0, "name": "/api/v1/project/", "num_failures": 0, "num_requests": 769, "response_time_percentile_0.95": 6100.0, "response_time_percentile_0.99": 6100.0, "total_fail_per_sec": 0.0, "total_rps": 12.852134895107454}, {"avg_content_length": 112741.0, "avg_response_time": 4986.872249816666, "current_fail_per_sec": 0.0, "current_rps": 12.8, "max_response_time": 6235.0, "median_response_time": 5700.0, "method": "", "min_response_time": 78.0, "name": "Aggregated", "num_failures": 0, "num_requests": 769, "response_time_percentile_0.95": 6100.0, "response_time_percentile_0.99": 6100.0, "total_fail_per_sec": 0.0, "total_rps": 12.852134895107454}], "response_time_statistics": [{"0.5": 5700.0, "0.6": 5800.0, "0.7": 5900.0, "0.8": 5900.0, "0.9": 6000.0, "0.95": 6100.0, "0.99": 6100.0, "1.0": 6200.0, "method": "GET", "name": "/api/v1/project/"}, {"0.5": 5700.0, "0.6": 5800.0, "0.7": 5900.0, "0.8": 5900.0, "0.9": 6000.0, "0.95": 6100.0, "0.99": 6100.0, "1.0": 6200.0, "method": "", "name": "Aggregated"}], "show_download_link": false, "start_time": "2026-01-13T22:55:58Z", "tasks": {"per_class": {"ApiProject": {"ratio": 1.0, "tasks": {"get_projects_api": {"ratio": 1.0}}}}, "total": {"ApiProject": {"ratio": 1.0, "tasks": {"get_projects_api": {"ratio": 1.0}}}}}}
       window.theme = "light"
     </script>
     

diff --git a/services/fastapi/tests/external/report.html b/services/fastapi/tests/external/report.html
@@ -116,7 +116,7 @@
     <div id="root"></div>
 
     <script>
-      window.templateArgs = {"duration": "1 minute", "end_time": "2026-01-13T21:15:59Z", "exceptions_statistics": [], "failures_statistics": [], "history": [{"current_fail_per_sec": ["2026-01-13T21:15:04Z", 0], "current_rps": ["2026-01-13T21:15:04Z", 8.5], "response_time_percentile_0.5": ["2026-01-13T21:15:04Z", 270.0], "response_time_percentile_0.95": ["2026-01-13T21:15:04Z", 490.0], "time": "2026-01-13T21:15:04Z", "total_avg_response_time": ["2026-01-13T21:15:04Z", 263.93], "user_count": ["2026-01-13T21:15:04Z", 50]}, {"current_fail_per_sec": ["2026-01-13T21:15:09Z", 0], "current_rps": ["2026-01-13T21:15:09Z", 17.714285714285715], "response_time_percentile_0.5": ["2026-01-13T21:15:09Z", 100.0], "response_time_percentile_0.95": ["2026-01-13T21:15:09Z", 480.0], "time": "2026-01-13T21:15:09Z", "total_avg_response_time": ["2026-01-13T21:15:09Z", 168.67], "user_count": ["2026-01-13T21:15:09Z", 50]}, {"current_fail_per_sec": ["2026-01-13T21:15:14Z", 0], "current_rps": ["2026-01-13T21:15:14Z", 22.5], "response_time_percentile_0.5": ["2026-01-13T21:15:14Z", 62], "response_time_percentile_0.95": ["2026-01-13T21:15:14Z", 140.0], "time": "2026-01-13T21:15:14Z", "total_avg_response_time": ["2026-01-13T21:15:14Z", 127.73], "user_count": ["2026-01-13T21:15:14Z", 50]}, {"current_fail_per_sec": ["2026-01-13T21:15:19Z", 0], "current_rps": ["2026-01-13T21:15:19Z", 23.9], "response_time_percentile_0.5": ["2026-01-13T21:15:19Z", 57], "response_time_percentile_0.95": ["2026-01-13T21:15:19Z", 150.0], "time": "2026-01-13T21:15:19Z", "total_avg_response_time": ["2026-01-13T21:15:19Z", 115.13], "user_count": ["2026-01-13T21:15:19Z", 50]}, {"current_fail_per_sec": ["2026-01-13T21:15:24Z", 0], "current_rps": ["2026-01-13T21:15:24Z", 24.2], "response_time_percentile_0.5": ["2026-01-13T21:15:24Z", 71], "response_time_percentile_0.95": ["2026-01-13T21:15:24Z", 180.0], "time": "2026-01-13T21:15:24Z", "total_avg_response_time": ["2026-01-13T21:15:24Z", 108.0], "user_count": ["2026-01-13T21:15:24Z", 50]}, {"current_fail_per_sec": ["2026-01-13T21:15:29Z", 0], "current_rps": ["2026-01-13T21:15:29Z", 24.6], "response_time_percentile_0.5": ["2026-01-13T21:15:29Z", 60], "response_time_percentile_0.95": ["2026-01-13T21:15:29Z", 150.0], "time": "2026-01-13T21:15:29Z", "total_avg_response_time": ["2026-01-13T21:15:29Z", 101.36], "user_count": ["2026-01-13T21:15:29Z", 50]}, {"current_fail_per_sec": ["2026-01-13T21:15:34Z", 0], "current_rps": ["2026-01-13T21:15:34Z", 23.9], "response_time_percentile_0.5": ["2026-01-13T21:15:34Z", 58], "response_time_percentile_0.95": ["2026-01-13T21:15:34Z", 160.0], "time": "2026-01-13T21:15:34Z", "total_avg_response_time": ["2026-01-13T21:15:34Z", 97.73], "user_count": ["2026-01-13T21:15:34Z", 50]}, {"current_fail_per_sec": ["2026-01-13T21:15:39Z", 0], "current_rps": ["2026-01-13T21:15:39Z", 23.8], "response_time_percentile_0.5": ["2026-01-13T21:15:39Z", 84], "response_time_percentile_0.95": ["2026-01-13T21:15:39Z", 240.0], "time": "2026-01-13T21:15:39Z", "total_avg_response_time": ["2026-01-13T21:15:39Z", 99.72], "user_count": ["2026-01-13T21:15:39Z", 50]}, {"current_fail_per_sec": ["2026-01-13T21:15:44Z", 0], "current_rps": ["2026-01-13T21:15:44Z", 23.5], "response_time_percentile_0.5": ["2026-01-13T21:15:44Z", 68], "response_time_percentile_0.95": ["2026-01-13T21:15:44Z", 240.0], "time": "2026-01-13T21:15:44Z", "total_avg_response_time": ["2026-01-13T21:15:44Z", 95.86], "user_count": ["2026-01-13T21:15:44Z", 50]}, {"current_fail_per_sec": ["2026-01-13T21:15:49Z", 0], "current_rps": ["2026-01-13T21:15:49Z", 23.9], "response_time_percentile_0.5": ["2026-01-13T21:15:49Z", 61], "response_time_percentile_0.95": ["2026-01-13T21:15:49Z", 170.0], "time": "2026-01-13T21:15:49Z", "total_avg_response_time": ["2026-01-13T21:15:49Z", 95.52], "user_count": ["2026-01-13T21:15:49Z", 50]}, {"current_fail_per_sec": ["2026-01-13T21:15:54Z", 0], "current_rps": ["2026-01-13T21:15:54Z", 23.6], "response_time_percentile_0.5": ["2026-01-13T21:15:54Z", 67], "response_time_percentile_0.95": ["2026-01-13T21:15:54Z", 180.0], "time": "2026-01-13T21:15:54Z", "total_avg_response_time": ["2026-01-13T21:15:54Z", 94.29], "user_count": ["2026-01-13T21:15:54Z", 50]}, {"current_fail_per_sec": ["2026-01-13T21:15:59Z", 0], "current_rps": ["2026-01-13T21:15:59Z", 23.2], "response_time_percentile_0.5": ["2026-01-13T21:15:59Z", 94], "response_time_percentile_0.95": ["2026-01-13T21:15:59Z", 260.0], "time": "2026-01-13T21:15:59Z", "total_avg_response_time": ["2026-01-13T21:15:59Z", 97.8], "user_count": ["2026-01-13T21:15:59Z", 50]}], "host": "http://localhost:1338", "is_report": true, "locustfile": "locust.py", "percentiles_to_chart": [0.5, 0.95], "profile": null, "requests_statistics": [{"avg_content_length": 104533.0, "avg_response_time": 100.09805559858631, "current_fail_per_sec": 0.0, "current_rps": 23.2, "max_response_time": 510.0, "median_response_time": 73, "method": "GET", "min_response_time": 30.0, "name": "/fastapi/api/v1/projects", "num_failures": 0, "num_requests": 1410, "response_time_percentile_0.95": 270.0, "response_time_percentile_0.99": 460.0, "total_fail_per_sec": 0.0, "total_rps": 23.511038849068992}, {"avg_content_length": 104533.0, "avg_response_time": 100.09805559858631, "current_fail_per_sec": 0.0, "current_rps": 23.2, "max_response_time": 510.0, "median_response_time": 73, "method": "", "min_response_time": 30.0, "name": "Aggregated", "num_failures": 0, "num_requests": 1410, "response_time_percentile_0.95": 270.0, "response_time_percentile_0.99": 460.0, "total_fail_per_sec": 0.0, "total_rps": 23.511038849068992}], "response_time_statistics": [{"0.5": 73, "0.6": 92, "0.7": 110.0, "0.8": 140.0, "0.9": 190.0, "0.95": 270.0, "0.99": 460.0, "1.0": 510.0, "method": "GET", "name": "/fastapi/api/v1/projects"}, {"0.5": 73, "0.6": 92, "0.7": 110.0, "0.8": 140.0, "0.9": 190.0, "0.95": 270.0, "0.99": 460.0, "1.0": 510.0, "method": "", "name": "Aggregated"}], "show_download_link": false, "start_time": "2026-01-13T21:14:59Z", "tasks": {"per_class": {"ApiProject": {"ratio": 1.0, "tasks": {"get_projects_api": {"ratio": 1.0}}}}, "total": {"ApiProject": {"ratio": 1.0, "tasks": {"get_projects_api": {"ratio": 1.0}}}}}}
+      window.templateArgs = {"duration": "1 minute", "end_time": "2026-01-13T22:54:55Z", "exceptions_statistics": [], "failures_statistics": [], "history": [{"current_fail_per_sec": ["2026-01-13T22:54:00Z", 0], "current_rps": ["2026-01-13T22:54:00Z", 13.0], "response_time_percentile_0.5": ["2026-01-13T22:54:00Z", 130.0], "response_time_percentile_0.95": ["2026-01-13T22:54:00Z", 210.0], "time": "2026-01-13T22:54:00Z", "total_avg_response_time": ["2026-01-13T22:54:00Z", 120.56], "user_count": ["2026-01-13T22:54:00Z", 50]}, {"current_fail_per_sec": ["2026-01-13T22:54:05Z", 0], "current_rps": ["2026-01-13T22:54:05Z", 22.5], "response_time_percentile_0.5": ["2026-01-13T22:54:05Z", 130.0], "response_time_percentile_0.95": ["2026-01-13T22:54:05Z", 290.0], "time": "2026-01-13T22:54:05Z", "total_avg_response_time": ["2026-01-13T22:54:05Z", 134.83], "user_count": ["2026-01-13T22:54:05Z", 100]}, {"current_fail_per_sec": ["2026-01-13T22:54:10Z", 0], "current_rps": ["2026-01-13T22:54:10Z", 37.8], "response_time_percentile_0.5": ["2026-01-13T22:54:10Z", 74], "response_time_percentile_0.95": ["2026-01-13T22:54:10Z", 290.0], "time": "2026-01-13T22:54:10Z", "total_avg_response_time": ["2026-01-13T22:54:10Z", 118.42], "user_count": ["2026-01-13T22:54:10Z", 100]}, {"current_fail_per_sec": ["2026-01-13T22:54:15Z", 0], "current_rps": ["2026-01-13T22:54:15Z", 47.8], "response_time_percentile_0.5": ["2026-01-13T22:54:15Z", 73], "response_time_percentile_0.95": ["2026-01-13T22:54:15Z", 290.0], "time": "2026-01-13T22:54:15Z", "total_avg_response_time": ["2026-01-13T22:54:15Z", 119.3], "user_count": ["2026-01-13T22:54:15Z", 100]}, {"current_fail_per_sec": ["2026-01-13T22:54:20Z", 0], "current_rps": ["2026-01-13T22:54:20Z", 47.4], "response_time_percentile_0.5": ["2026-01-13T22:54:20Z", 75], "response_time_percentile_0.95": ["2026-01-13T22:54:20Z", 300.0], "time": "2026-01-13T22:54:20Z", "total_avg_response_time": ["2026-01-13T22:54:20Z", 116.62], "user_count": ["2026-01-13T22:54:20Z", 100]}, {"current_fail_per_sec": ["2026-01-13T22:54:25Z", 0], "current_rps": ["2026-01-13T22:54:25Z", 47.9], "response_time_percentile_0.5": ["2026-01-13T22:54:25Z", 90], "response_time_percentile_0.95": ["2026-01-13T22:54:25Z", 280.0], "time": "2026-01-13T22:54:25Z", "total_avg_response_time": ["2026-01-13T22:54:25Z", 116.91], "user_count": ["2026-01-13T22:54:25Z", 100]}, {"current_fail_per_sec": ["2026-01-13T22:54:30Z", 0], "current_rps": ["2026-01-13T22:54:30Z", 47.8], "response_time_percentile_0.5": ["2026-01-13T22:54:30Z", 110.0], "response_time_percentile_0.95": ["2026-01-13T22:54:30Z", 260.0], "time": "2026-01-13T22:54:30Z", "total_avg_response_time": ["2026-01-13T22:54:30Z", 116.65], "user_count": ["2026-01-13T22:54:30Z", 100]}, {"current_fail_per_sec": ["2026-01-13T22:54:35Z", 0], "current_rps": ["2026-01-13T22:54:35Z", 48.2], "response_time_percentile_0.5": ["2026-01-13T22:54:35Z", 100.0], "response_time_percentile_0.95": ["2026-01-13T22:54:35Z", 210.0], "time": "2026-01-13T22:54:35Z", "total_avg_response_time": ["2026-01-13T22:54:35Z", 113.29], "user_count": ["2026-01-13T22:54:35Z", 100]}, {"current_fail_per_sec": ["2026-01-13T22:54:40Z", 0], "current_rps": ["2026-01-13T22:54:40Z", 48.3], "response_time_percentile_0.5": ["2026-01-13T22:54:40Z", 87], "response_time_percentile_0.95": ["2026-01-13T22:54:40Z", 220.0], "time": "2026-01-13T22:54:40Z", "total_avg_response_time": ["2026-01-13T22:54:40Z", 111.92], "user_count": ["2026-01-13T22:54:40Z", 100]}, {"current_fail_per_sec": ["2026-01-13T22:54:45Z", 0], "current_rps": ["2026-01-13T22:54:45Z", 46.9], "response_time_percentile_0.5": ["2026-01-13T22:54:45Z", 68], "response_time_percentile_0.95": ["2026-01-13T22:54:45Z", 200.0], "time": "2026-01-13T22:54:45Z", "total_avg_response_time": ["2026-01-13T22:54:45Z", 107.12], "user_count": ["2026-01-13T22:54:45Z", 100]}, {"current_fail_per_sec": ["2026-01-13T22:54:50Z", 0], "current_rps": ["2026-01-13T22:54:50Z", 48.3], "response_time_percentile_0.5": ["2026-01-13T22:54:50Z", 70], "response_time_percentile_0.95": ["2026-01-13T22:54:50Z", 190.0], "time": "2026-01-13T22:54:50Z", "total_avg_response_time": ["2026-01-13T22:54:50Z", 106.23], "user_count": ["2026-01-13T22:54:50Z", 100]}, {"current_fail_per_sec": ["2026-01-13T22:54:55Z", 0], "current_rps": ["2026-01-13T22:54:55Z", 48.1], "response_time_percentile_0.5": ["2026-01-13T22:54:55Z", 84], "response_time_percentile_0.95": ["2026-01-13T22:54:55Z", 230.0], "time": "2026-01-13T22:54:55Z", "total_avg_response_time": ["2026-01-13T22:54:55Z", 105.87], "user_count": ["2026-01-13T22:54:55Z", 0]}], "host": "http://localhost:1338", "is_report": true, "locustfile": "locust.py", "percentiles_to_chart": [0.5, 0.95], "profile": null, "requests_statistics": [{"avg_content_length": 104533.0, "avg_response_time": 105.87308510617345, "current_fail_per_sec": 0.0, "current_rps": 48.1, "max_response_time": 429.0, "median_response_time": 86, "method": "GET", "min_response_time": 17.0, "name": "/fastapi/api/v1/projects", "num_failures": 0, "num_requests": 2694, "response_time_percentile_0.95": 260.0, "response_time_percentile_0.99": 340.0, "total_fail_per_sec": 0.0, "total_rps": 45.01866739679577}, {"avg_content_length": 104533.0, "avg_response_time": 105.87308510617345, "current_fail_per_sec": 0.0, "current_rps": 48.1, "max_response_time": 429.0, "median_response_time": 86, "method": "", "min_response_time": 17.0, "name": "Aggregated", "num_failures": 0, "num_requests": 2694, "response_time_percentile_0.95": 260.0, "response_time_percentile_0.99": 340.0, "total_fail_per_sec": 0.0, "total_rps": 45.01866739679577}], "response_time_statistics": [{"0.5": 86, "0.6": 110.0, "0.7": 130.0, "0.8": 170.0, "0.9": 220.0, "0.95": 260.0, "0.99": 340.0, "1.0": 430.0, "method": "GET", "name": "/fastapi/api/v1/projects"}, {"0.5": 86, "0.6": 110.0, "0.7": 130.0, "0.8": 170.0, "0.9": 220.0, "0.95": 260.0, "0.99": 340.0, "1.0": 430.0, "method": "", "name": "Aggregated"}], "show_download_link": false, "start_time": "2026-01-13T22:53:55Z", "tasks": {"per_class": {"ApiProject": {"ratio": 1.0, "tasks": {"get_projects_api": {"ratio": 1.0}}}}, "total": {"ApiProject": {"ratio": 1.0, "tasks": {"get_projects_api": {"ratio": 1.0}}}}}}
       window.theme = "light"
     </script>
     

diff --git a/README.md b/README.md
@@ -43,15 +43,16 @@
 
 # Нагрузочные тесты
 
-```
-cd ./services/fastapi/
-```
-```
-pipenv run locust -f ./tests/external/locust.py --host http://localhost:1338 --headless -u 100 -r 20 -t 5m --html=./tests/external/report.html
-```
+| Django drf | Fastapi |
+| - | - |
+| Сохраните [файл с тестами](./services/drf/tests/external/report.html) локально и откройте в браузере | Сохраните [файл с тестами](./services/fastapi/tests/external/report.html) локально и откройте в браузере |
+| ![img_1](files/img/locust/django/tests.png) | ![img_1](files/img/locust/fastapi/tests.png)|
+| `cd ./services/drf/` | `cd ./services/fastapi/` |
 
-![img_1](files/img/locust/fastapi/tests.png)
-Сохраните [файл с тестами](./services/fastapi/tests/external/report.html) локально и откройте в браузере
+
+```
+pipenv run locust -f ./tests/external/locust.py --host http://localhost:1338 --headless -u 100 -r 10 -t 5m --html=./tests/external/report.html
+```
 
 # Доступные сервисы  
 
